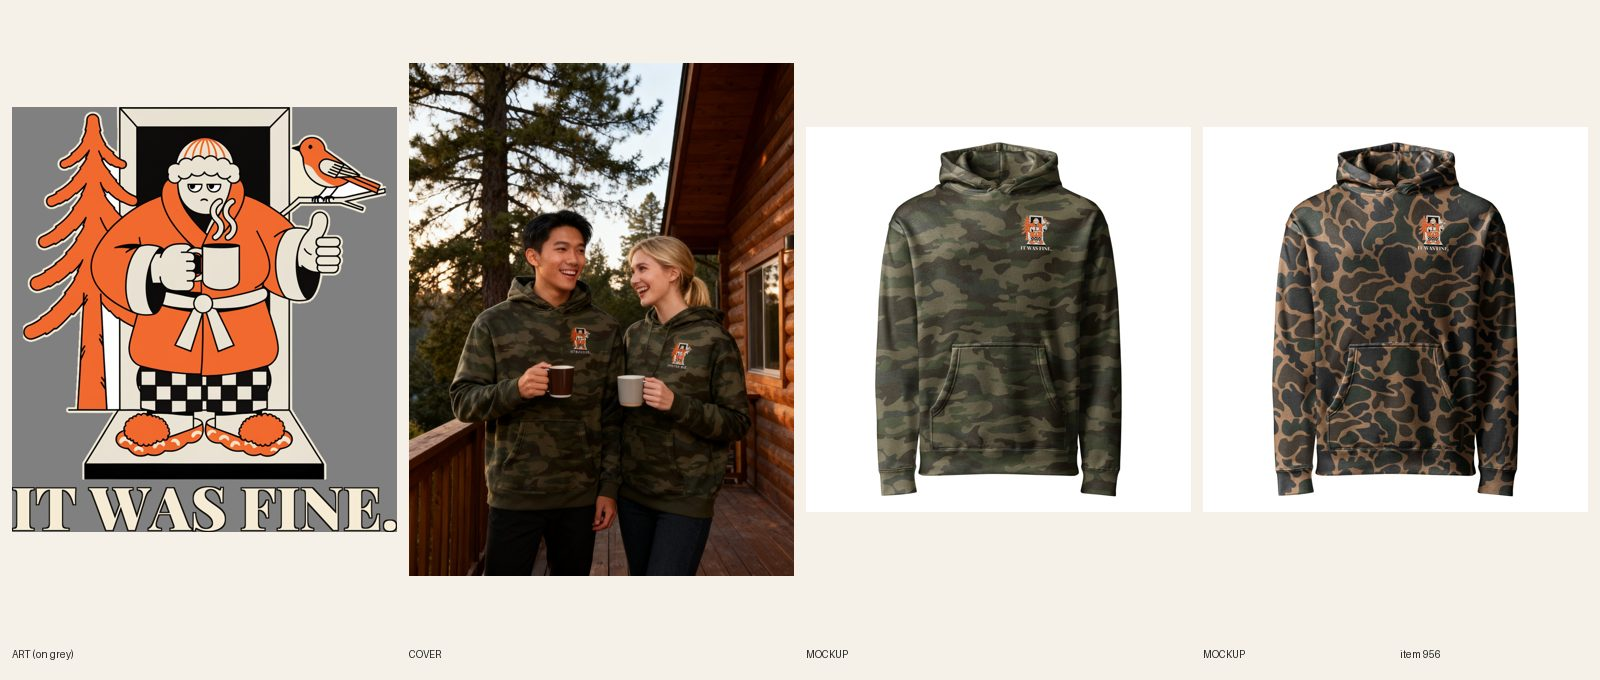
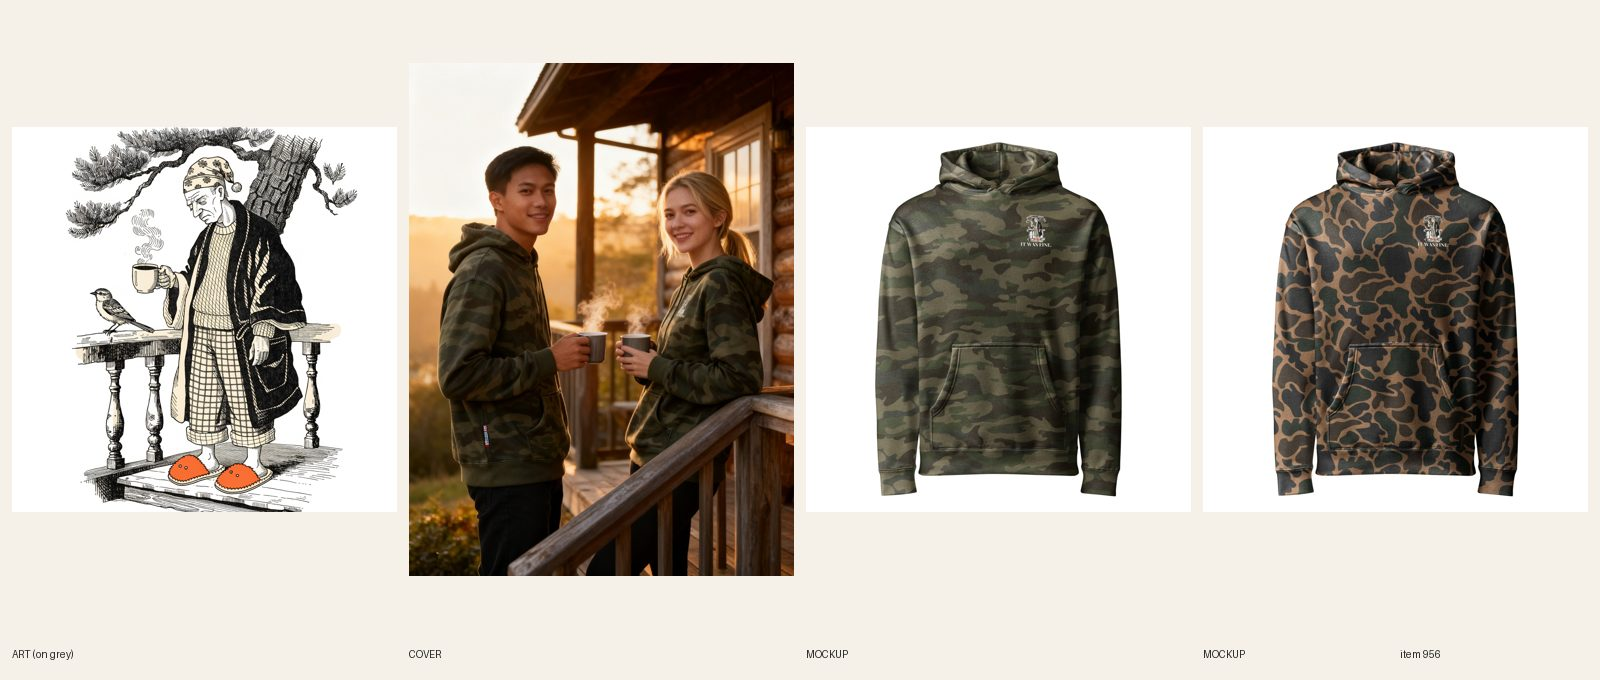
[B] review 956 redo: field-guide plate, new photos
Claude-Session: https://claude.ai/code/session_01SLsSLRnNcyTwMXP7V8GYkF

Changed region(s): [[0.0, 0.0926, 0.5, 0.8647], [0.875, 0.3088, 0.9062, 0.3706], [0.625, 0.3088, 0.6562, 0.3706]]

diff --git a/designs/b956r/lock.py b/designs/b956r/lock.py
@@ -1,0 +1,14 @@
+import sys, subprocess; sys.path.insert(0, '.')
+from designs.lib import *
+from PIL import Image
+W = 2352; DARK = (20, 16, 12, 255)
+subprocess.run(['/tmp/claude-0/venv/bin/python3', 'scripts/camo-halo.py', 'designs/b956r/art_p.png', 'designs/b956r/art_h.png', '40', '16'], check=True)
+ah = Image.open('designs/b956r/art_h.png').convert('RGBA'); ah = ah.crop(ah.getbbox())
+AW = 1500; ah = ah.resize((AW, int(ah.height * AW / ah.width)), Image.LANCZOS)
+t = line('IT WAS FINE.', 'playfair', 1.0, W, CREAM, DARK, kw=15)
+gap = 40; H = ah.height + gap + t.height; out = Image.new('RGBA', (W, H), (0, 0, 0, 0))
+out.alpha_composite(ah, ((W - ah.width) // 2, 0)); out.alpha_composite(t, ((W - t.width) // 2, ah.height + gap))
+out = out.crop(out.getbbox()); out.save('docs/print-files/956-outside2.png', dpi=(300, 300))
+print(out.size, 'art', ah.size, 'art %of height', 100*ah.height//out.height, 'cap', t.height, 'text w', t.width, 'cap at FW625 px', round(t.height*625/out.width))
+for n, c in (('black', (34, 30, 28, 255)), ('forest', (52, 62, 44, 255))):
+    b = Image.new('RGBA', out.size, c); b.alpha_composite(out); b.convert('RGB').resize((600, int(600 * out.height / out.width))).save(f'designs/b956r/prev_{n}.png')

diff --git a/docs/pipeline/956-camo-twin-outdoors-went-outside-it-was-fine.md b/docs/pipeline/956-camo-twin-outdoors-went-outside-it-was-fine.md
@@ -1,4 +1,4 @@
-status: BUILDING [B] 2026-10-29T17:36Z
+status: REVIEW
 lane: B
 type: twin
 id: 956
@@ -27,3 +27,4 @@ push: camo
 - 2026-10-23 14:55 UTC director: RE-BRIEF (answers the builder's 2026-10-23 13:50 stand-down): this twin no longer follows the old patch standard (R11.13 superseded by docs/backlog/camo-redo.md, Sam 2026-10-22). Build it to camo-redo.md rules 1-6: style S2, placement B3 (tag placement-b), no cream box, no tall condensed sans, no default orange second line, a font no other camo item in the run uses, the picture acts out the joke; two fal lifestyle photos per the camo-redo photo section. Redo the existing 2026-10-21 Shopify draft and Printful sync in place (new art, file, position, mockups); never a second product. Take it only after the 27 camo-redo rows (REDO comes first).
 - 2026-10-29 14:00 UTC [B]: REBUILT in place per the 2026-10-23 re-brief (S2 field guide, B3 left chest, tag placement-b), product 15372840665392 (still DRAFT), Printful 483725138. Art: 1 Recraft call (bathrobe homebody with mug and thumbs up in a doorway, big pine and a bird; black, cream, blaze orange, no words), no patch box; one line IT WAS FINE. (3 words) in Playfair Display (recent lane B faces: Fraunces, Alfa, Lobster, Caveat Brush, Bevan, Cinzel; Playfair not among them). Print 2334 x 2576, FW625 TOP300 LEFT1475, art 87% of height, cap 278 px = 74 px at FW625. 14/14 on file 1097929953 (verified from Printful), back logo kept. Front mockups replaced in place (Duck, Forest), copy, alts, SEO, placement-b tag. Phone read OK on both. Photos: registry 1116+1117 (man and woman, Forest, cabin porch) and 1117 (Duck, lakeside tailgate); photo 1 took 5 calls (first 3 came back as t-shirts, then a stray IT WAS FINE on a hem), photo 2 took 2 (print on the hood first); final caption a soft blur, icon matches. Images 1-2, front per color, back last. Handle in retired-covers, keyword map row added (top-level check []). design-crops.py hung on the draft (not run). Sheet docs/review/956.jpg. fal ~$0.46.
 - 2026-10-29 14:26 UTC director: REDO (art only; product stays DRAFT, the line, B3 placement and copy structure pass). 1. camo-redo rule 3 (assigned style): this item is S2 Field guide (vintage engraving or naturalist plate, serif caption like a specimen label), but the art is a flat thick-outline cartoon character, i.e. S3. Redraw the homebody as a field-guide plate: fine engraved hatching in 2-3 inks, a 'specimen' standing in a bathrobe and slippers at a porch step with a mug, the bird and pine kept as plate details; keep IT WAS FINE. in Playfair as the specimen-label caption (cap >= 53 px at FW 625, B3 size check). 2. camo-redo rule 6 (no siblings): built in the same run as #957, it shares #957's character design (round head, heavy-lidded scowl, chunky white gloves), the same black/cream/blaze-orange inks and the same outline weight; side by side on the camo grid they read as one series. The S2 redraw fixes both. 3. camo-redo rule 2 / R4.1: the doorway is a straight-edged cream frame around a black rectangle; at B3 size on the Forest mockup it reads as a box behind the figure. In the redraw, let the door be a partial, worn-edged jamb or drop it for the porch step. 4. R6.10 / R6.8: after the new print is synced, two new B3 lifestyle photos per the camo-redo photo section (man + woman, R6.3; the cabin-porch scene can stay). One Recraft call plus photos, inside the fal cap.
+- 2026-10-29 17:46 UTC [B]: REDO done in place (product still DRAFT, Printful 483725138). S2 field-guide plate: 1 Recraft call (engraved bathrobe homebody at a porch rail with mug, bird, pine; black/cream/blaze orange; no doorway or box), IT WAS FINE. in Playfair, print 2334 x 2299, FW625 TOP300 LEFT1475, art 86% of height, cap 74 px at FW625. 14/14 on file 1098084732 (verified). Copy, alts updated for the new art. Photos: registry 1116+1117 cabin porch (Forest), 1117 lakeside tailgate (Duck), 3 extra photo calls for stray hem text / a flat shot. Sheet docs/review/956.jpg. fal ~$0.46.

diff --git a/docs/intake-log.md b/docs/intake-log.md
@@ -1,4 +1,5 @@
 RUNNING lane B since 2026-10-29 17:36 UTC
+2026-10-29 17:46 UTC — [B] REVIEW #956 Unisex Outdoors – Went Outside. It Was Fine. Camo Hoodie (REDO: S2 field-guide plate, B3 FW625 TOP300 LEFT1475, 14/14 on 1098084732, IT WAS FINE. Playfair cap 74 px, art 86% of height; 2 new lifestyle photos). Product still DRAFT. fal ~$0.7
 2026-10-29 15:02 UTC — [H] Helper run: Telegram inbox had 1 message from Sam ('yes', no context); acknowledged, logged in docs/inbox.md, update consumed. Shopify: 0 orders (list-orders returned none), so no order alert and no Printful hold check. Audit 756 live products: 0 errors, 457 warnings left alone; committed docs/cohesion-audit.md and .json (npm ci first; node_modules symlink restored after). Category check: 0 products without a Shopify category (no mutation). Site check: mens-fishing-you-catching-em-keep-walking-camo-hoodie, unisex-new-years-eve-midnight-is-a-suggestion-embroidered-zip-hoodie and unisex-running-mile-one-was-a-mistake-embroidered-zip-hoodie all 200; homepage 200. Stuck work: no item in BUILDING status; no lane lock held. Daily summary not due (director digest with the same counts already sent today at 14:48). Lock released.
 2026-10-29 14:48 UTC — [D] Director run: inbox nothing new from Sam (still no answer on the ~119 live TOP-0 pullover hoodies). Reviewed 2 REVIEW sheets: #957 You Catching 'Em? No. Keep Walking. camo hoodie (S3 on A+) APPROVED and LIVE, copied to reference/best; #956 Went Outside camo twin REDO (camo-redo rule 3: built as a flat cartoon instead of its S2 field-guide style; rule 6: a sibling of #957, same character and inks; doorway reads as a box at B3). 6 new LIVE (Oct 29 Chicago day, cap reached; camo to 30 of 40, then the mens zip up hoodie 74K/KD 6 and graphic hoodie men 27.1K/KD 9 thin niche): #957 plus held zip approvals #924 pirate, #938 running, #932 bison, #917 alien, #944 New Year's Eve; R11.15 re-check passed (7m is a front-chest rule, zip fronts are the stitched mark); all ACTIVE + Online Store, Headless, Google & YouTube, audit --handle PASS (1 warn: no lifestyle cover); manual nightly-rebuild at 14:36, all 6 pages 200 at 14:48. Note for the next publish: held approvals #652 #695 #696 (crewnecks) and #704 #722 (cropped hoodies) print at TOP 75, check against 7m before LIVE. No new briefs: 54 READY, over the 6-12 target. Telegram: digest sent. Lock released.
 2026-10-29 14:31 UTC — [B] Builder run end: 2 items, camo twins #956 (S2 homebody, B3) and #957 (S3 grumpy angler, A+), both rebuilt in place, still DRAFT for director. New products today: 0 of 6 (in-place rebuilds of existing drafts). fal ~$0.66. Lock released.
